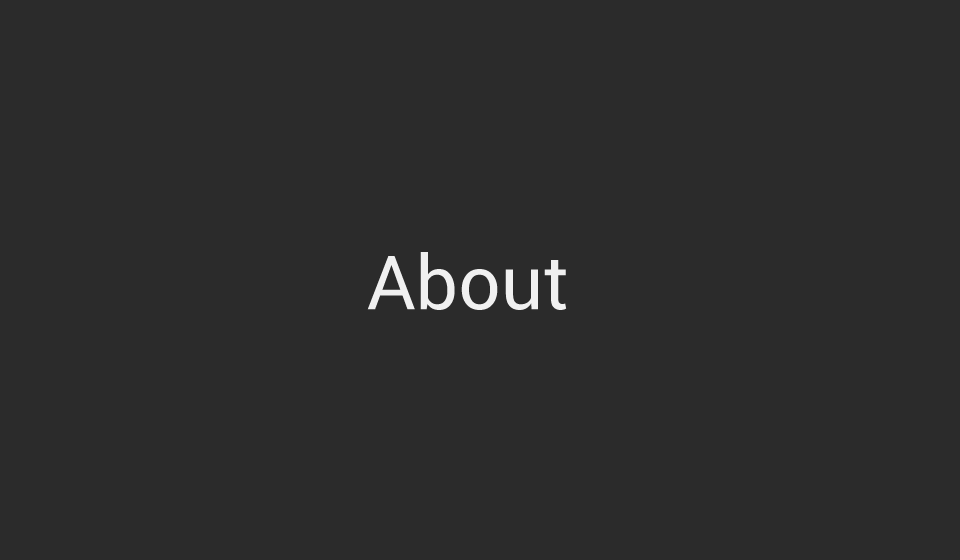
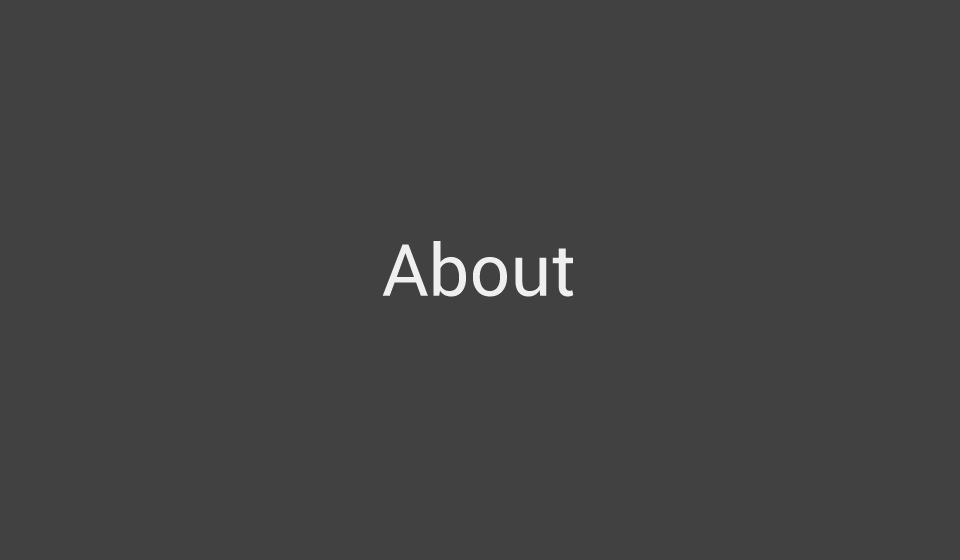
changed buttons colors
resized the contact bottons and the colors on the homepage

Changed region(s): [[0.375, 0.425, 0.5938, 0.5768]]

diff --git a/scss/contact.scss b/scss/contact.scss
@@ -126,14 +126,14 @@ nav {
     position: relative;
     bottom: 0;
     right: 3%;
-    padding-top: 15%;
+    padding-top: 12%;
     text-align: center;
     
     
     .media-links {
         margin: 0 auto;
         padding: 0;
-        width:5%;
+        width:8%;
         margin-left: 5%;
         
     }

diff --git a/css/contact.css b/css/contact.css
@@ -140,7 +140,7 @@ nav a {
   position: relative;
   bottom: 0;
   right: 3%;
-  padding-top: 15%;
+  padding-top: 12%;
   text-align: center;
 }
 
@@ -148,7 +148,7 @@ nav a {
 #links .media-links {
   margin: 0 auto;
   padding: 0;
-  width: 5%;
+  width: 8%;
   margin-left: 5%;
 }
 

diff --git a/scss/main.scss b/scss/main.scss
@@ -115,7 +115,7 @@ body {
         margin: 0;
         padding: 0;
         width: 10%;
-        padding-top: 30%;
+        padding-top: 35%;
         padding-bottom: 10%;
     }
 }

diff --git a/css/main.css b/css/main.css
@@ -129,7 +129,7 @@ body {
   margin: 0;
   padding: 0;
   width: 10%;
-  padding-top: 30%;
+  padding-top: 35%;
   padding-bottom: 10%;
 }
 
